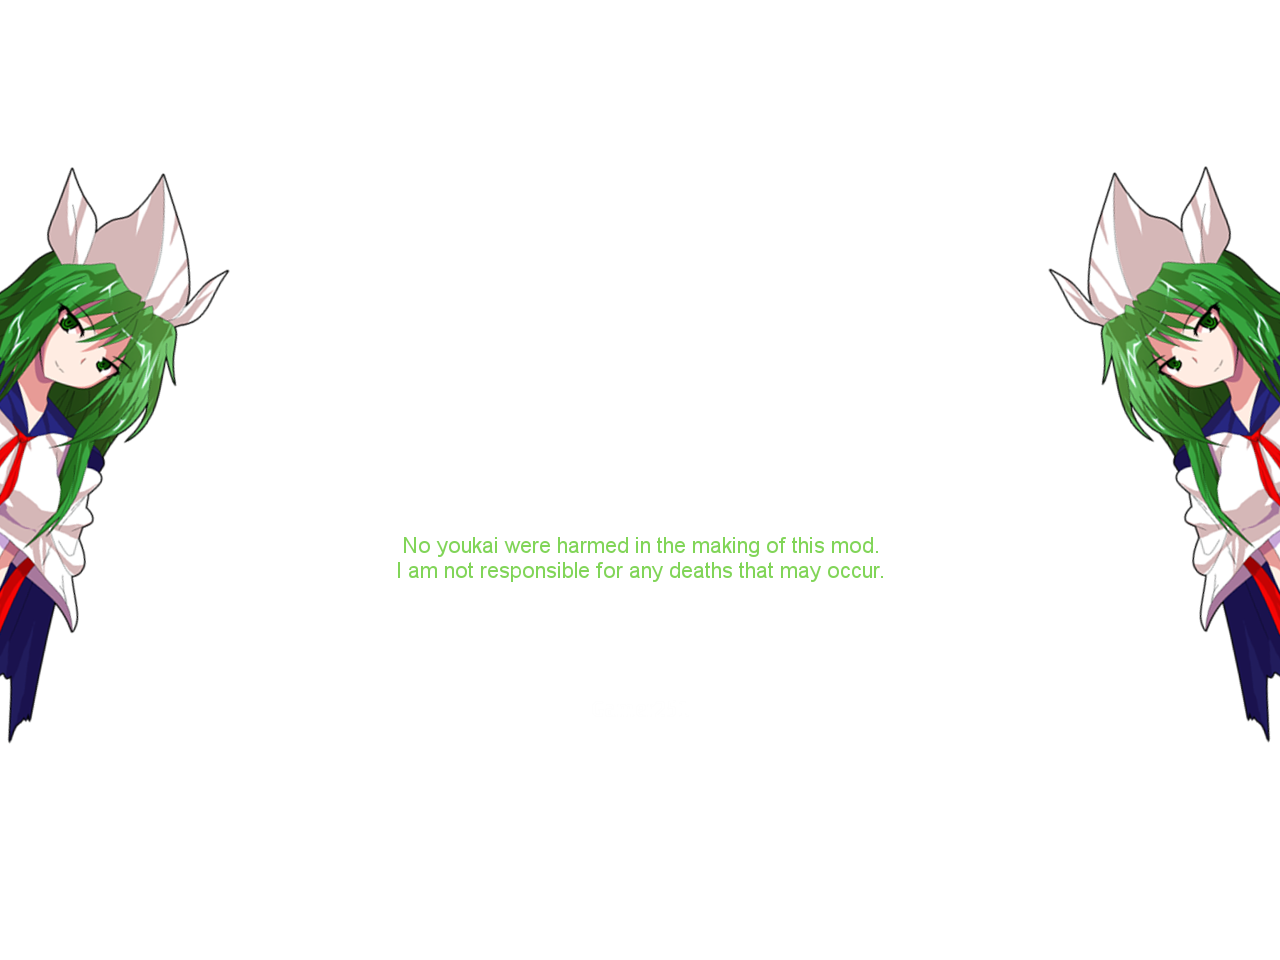
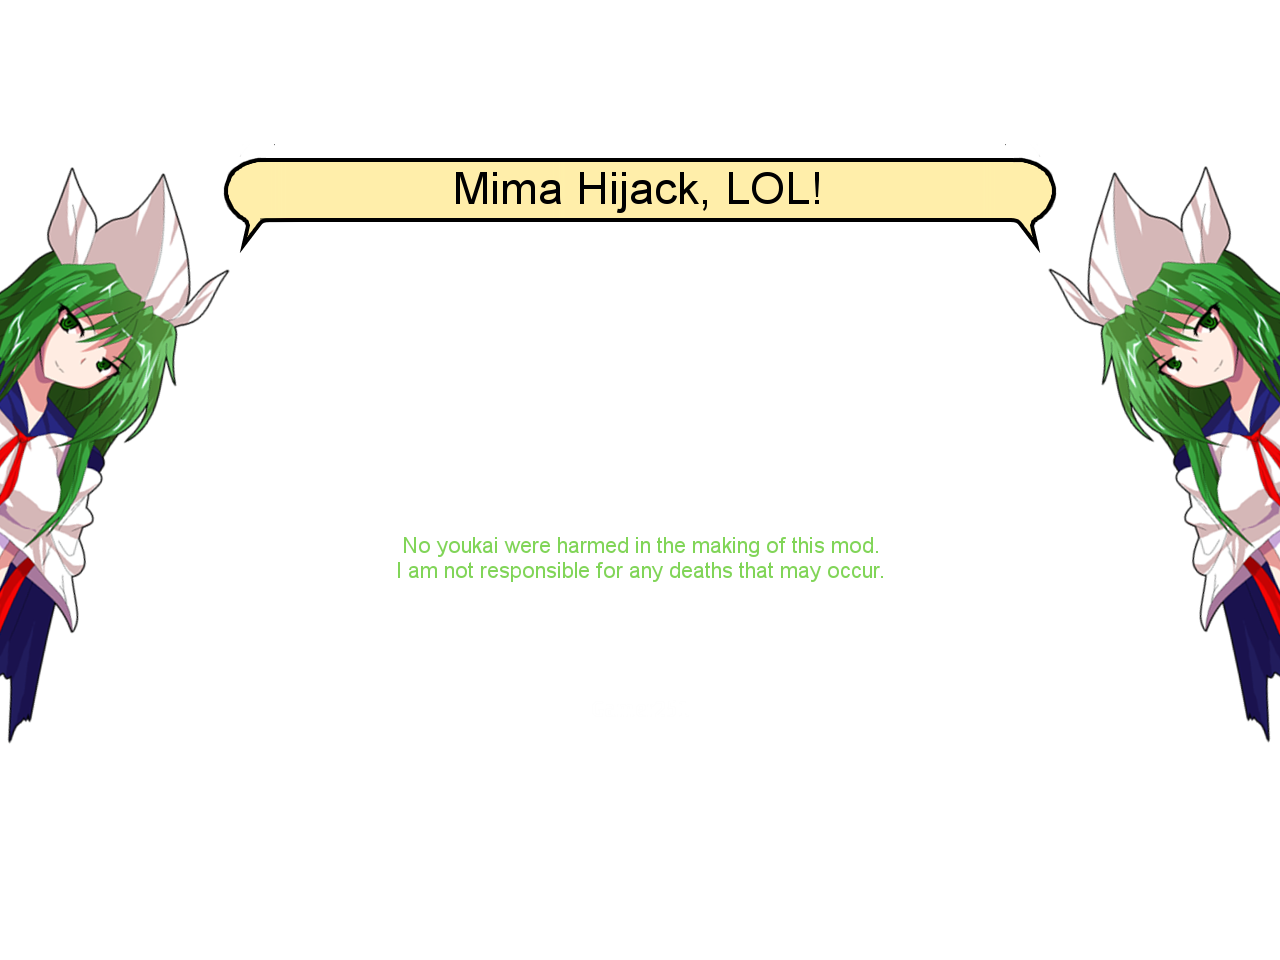
New signatures!

Changed region(s): [[0.1562, 0.1562, 0.8438, 0.25]]

diff --git a/mima/files.js b/mima/files.js
@@ -13,7 +13,8 @@
 	"th13/face/pl01/face_pl01sp.png": 1077019054,
 	"th13/face/pl01/face_pl01sw.png": 4078703936,
 	"th13/face/pl01/title_pl01.png": 785431004,
-	"th13/loading/sig.png": 3760051552,
+	"th13/loading/Thumbs.db": 2610777841,
+	"th13/loading/sig.png": 887752272,
 	"th13/player/pl01/Thumbs.db": 1668197659,
 	"th13/player/pl01/pl01.png": 2423680489,
 	"th13/player/pl01/pl01b.png": 1481901219,
@@ -94,8 +95,8 @@
 	"th14/face/pl01/face_pl01sw.png": 541003538,
 	"th14/face/pl01/title_pl01.png": 945018346,
 	"th14/face/pl01/title_pl01b.png": 3600070361,
-	"th14/loading/Thumbs.db": 2352493706,
-	"th14/loading/sig1280.png": 3361326253,
+	"th14/loading/Thumbs.db": 3211147917,
+	"th14/loading/sig1280.png": 1076700121,
 	"th14/pl01.anm": null,
 	"th14/player/pl01/Thumbs.db": 2069592973,
 	"th14/player/pl01/pl01.png": 191010750,
